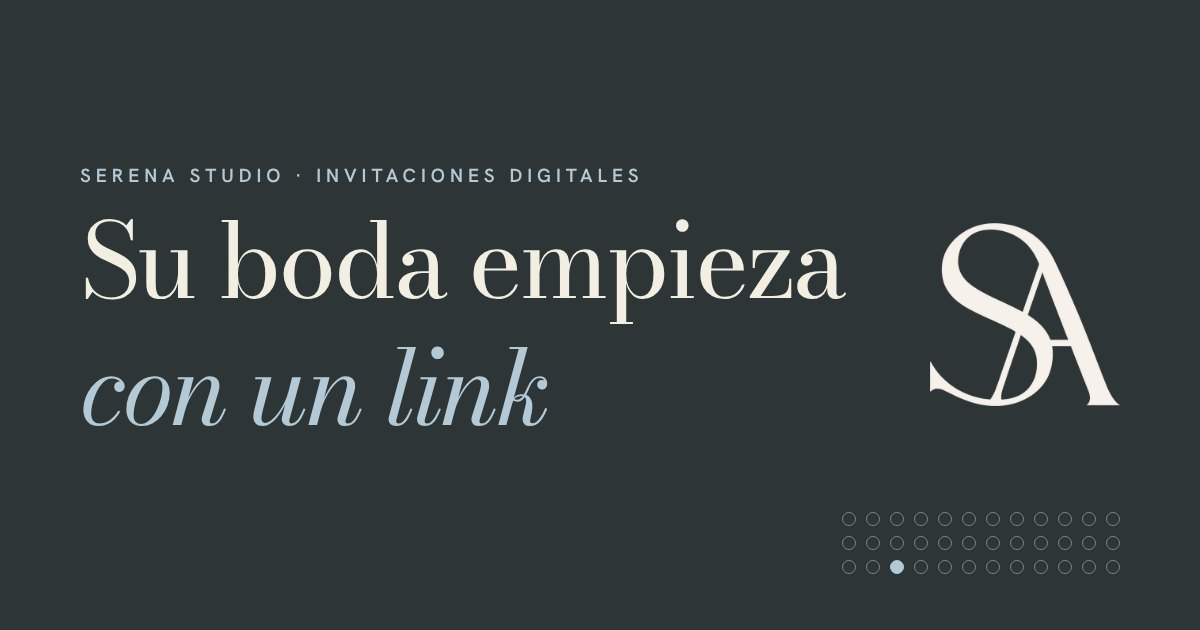
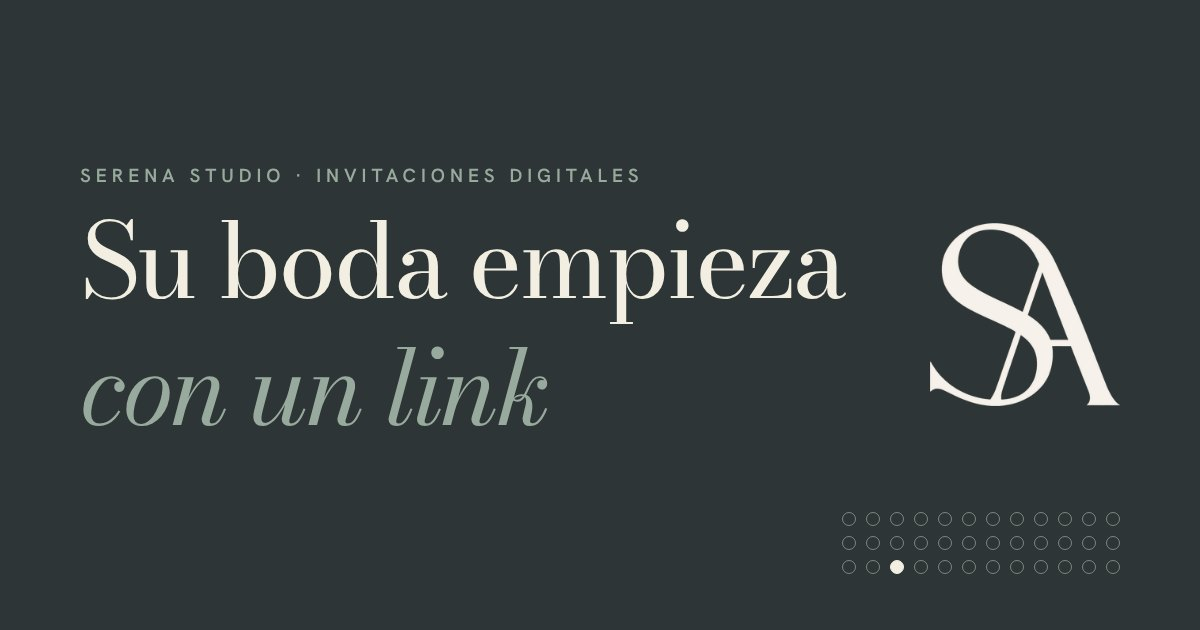
Dirección "Eucalipto": se quita el azul Mist de la paleta
Quedan eucalipto, musgo, hollín y yeso. "Con un link" y el botón
principal pasan a eucalipto; el proceso va sobre un musgo un punto más
profundo (#5C6E62) para que el texto en yeso cumpla AA. Manifiesto y
lámina en docs/eucalipto.md y docs/lamina-eucalipto.jpg.

Claude-Session: https://claude.ai/code/session_01CRn6ZXL6TqJTvQMKZUivaK

Changed region(s): [[0.0617, 0.5429, 0.4625, 0.6937], [0.0617, 0.2714, 0.5242, 0.3016], [0.74, 0.8746, 0.7708, 0.9048]]

diff --git a/index.html b/index.html
@@ -162,12 +162,12 @@
    tabla comparativa (como una hoja de cotización); cierre con el mensaje de WhatsApp ya escrito.
    Marca: la del brochure (papel, tinta, vino; Cormorant + Hanken). Un solo look a propósito. */
 :root{
-  /* Paleta "Bruma" (docs/bruma.md): eucalipto, bruma, yeso, hollín y musgo */
+  /* Paleta "Eucalipto" (docs/eucalipto.md): eucalipto, musgo, hollín y yeso */
   --papel:#F2EFE2;     /* yeso: fondo de lectura */
   --hoja:#FAF8F1;      /* yeso claro: tabla y burbuja */
   --tinta:#2D3536;     /* hollín: texto, portada y pie */
   --euca:#98AA9D;      /* eucalipto: banda de muestras */
-  --bruma:#B3C9D6;     /* bruma: banda del proceso y acento frío sobre hollín */
+  --musgo-banda:#5C6E62; /* musgo un punto más profundo: banda del proceso (texto yeso AA 4,7:1) */
   --musgo:#697C70;     /* musgo: filetes y detalles grandes */
   --musgo-osc:#4E5E54; /* musgo oscuro: acentos de texto sobre yeso (AA) */
   --vino:#4E5E54;      /* alias de acento de texto */
@@ -176,9 +176,9 @@
   --gris:#4E5E54;      /* texto secundario (AA sobre yeso) */
   --linea:#D9D8CB;
   --linea-2:#B9BDB2;
-  --rubor:#B3C9D6;
+  --rubor:#98AA9D;
   --claro:#D5DCD6;     /* texto secundario sobre hollín */
-  --chat:#DCE6EC;      /* burbuja del mensaje enviado: verde muy apagado, sin imitar a WhatsApp */
+  --chat:#E1E8E2;      /* burbuja del mensaje enviado: verde muy apagado, sin imitar a WhatsApp */
   --crema:#D9D1C5;     /* texto secundario sobre tinta */
 
   --f-display:"Bodoni Moda", "Didot", "Bodoni 72", Georgia, serif;
@@ -391,7 +391,7 @@ details p{color:var(--gris);margin:0;padding-bottom:1.3rem;max-width:40rem}
 .pie p{margin:0}
 
 
-/* ===================== DIRECCIÓN "BRUMA" ===================== */
+/* ===================== DIRECCIÓN "EUCALIPTO" ===================== */
 h2{font-size:clamp(2.3rem, 7vw, 3.7rem);line-height:1.02;letter-spacing:-.02em}
 .muestra h3{font-size:1.55rem;letter-spacing:-.01em}
 summary{font-size:1.3rem;letter-spacing:-.01em}
@@ -406,15 +406,15 @@ summary{font-size:1.3rem;letter-spacing:-.01em}
 .tope .portada{border-top-color:rgba(152,170,157,.35)}
 .tope .portada h1 .rotulo{color:var(--euca)}
 .tope .portada .eslogan{color:var(--papel);font-size:clamp(3.6rem, 14vw, 7.4rem);line-height:.88;letter-spacing:-.04em}
-.tope .portada .eslogan em{color:var(--bruma)}
+.tope .portada .eslogan em{color:var(--euca)}
 .tope .portada .lema{color:var(--claro)}
 .tope .datos{border-top-color:var(--musgo);color:var(--claro)}
 .tope .datos b{color:var(--papel)}
 .tope .btn{border-color:var(--papel);color:var(--papel)}
 .tope .btn:hover{background:var(--papel);color:var(--tinta)}
-.tope .btn-tinta{background:var(--bruma);color:var(--tinta);border-color:var(--bruma)}
+.tope .btn-tinta{background:var(--euca);color:var(--tinta);border-color:var(--euca)}
 .tope .btn-tinta:hover{background:var(--papel);border-color:var(--papel);color:var(--tinta)}
-.tope :focus-visible{outline-color:var(--bruma)}
+.tope :focus-visible{outline-color:var(--euca)}
 .tope .pie-escena{color:var(--claro)}
 .tope .cel{border-color:#161B1B;background:#161B1B;box-shadow:0 40px 70px -35px rgba(0,0,0,.8)}
 .tope .saltar{background:var(--papel);color:var(--tinta)}
@@ -430,27 +430,28 @@ summary{font-size:1.3rem;letter-spacing:-.01em}
 .muestra .abrir{text-decoration-color:var(--tinta)}
 .muestra a:hover .abrir{color:var(--tinta);text-decoration-thickness:2px}
 
-/* Precios sobre yeso, columna destacada en bruma */
-.col-dest{background:rgba(179,201,214,.38)}
+/* Precios sobre yeso, columna destacada en eucalipto */
+.col-dest{background:rgba(152,170,157,.26)}
 thead .col-dest{box-shadow:inset 0 4px 0 var(--musgo)}
 .tabla-caja{border-color:var(--tinta)}
 td svg{color:var(--musgo-osc)}
 .solo-pdf{border-color:var(--musgo)}
 .solo-pdf strong{color:var(--musgo-osc)}
 
-/* Proceso sobre bruma */
-.proceso{background:var(--bruma);color:var(--tinta);border-top:0}
-.proceso p{color:var(--tinta)}
-.pasos li::before{color:var(--tinta)}
-.pasos li{border-top-color:rgba(45,53,54,.3)}
-@media (min-width:56rem){.pasos li{border-top-color:var(--tinta)}}
+/* Proceso sobre musgo */
+.proceso{background:var(--musgo-banda);color:var(--papel);border-top:0}
+.proceso h2,.proceso h3,.proceso p{color:var(--papel)}
+.pasos li::before{color:var(--papel)}
+.pasos li{border-top-color:rgba(242,239,226,.35)}
+@media (min-width:56rem){.pasos li{border-top-color:var(--euca)}}
+.proceso :focus-visible{outline-color:var(--papel)}
 
 /* Pie sobre hollín */
 .pie-oscuro{background:var(--tinta);color:var(--claro)}
 .pie-oscuro .pie{border-top:0;color:var(--claro)}
 .pie-oscuro a{color:var(--papel);text-decoration-color:var(--euca)}
-.pie-oscuro a:hover{color:var(--bruma)}
-.pie-oscuro :focus-visible{outline-color:var(--bruma)}
+.pie-oscuro a:hover{color:var(--euca)}
+.pie-oscuro :focus-visible{outline-color:var(--euca)}
 @media (prefers-reduced-motion:reduce){
   html{scroll-behavior:auto}
   .muestra .cel{transition:none}

diff --git a/docs/eucalipto.md b/docs/eucalipto.md
@@ -1,0 +1,13 @@
+# Eucalipto
+
+*Manifiesto visual de Serena Studio. Lámina: `lamina-eucalipto.jpg`. Reemplaza a "Bruma" (sin el azul Mist). Paleta entregada por el estudio: Eucalyptus #98AA9D, Plaster #F2EFE2, Soot #2D3536, Moss #697C70.*
+
+**Eucalipto** es la elegancia de lo vegetal visto de cerca. Nace de una rama cortada sobre una mesa de yeso: hojas redondas de verde grisáceo, un tallo que se curva, la sombra profunda que la luz deja detrás. Es una estética de pocas notas y mucha presencia, donde un verde apagado se vuelve protagonista porque todo a su alrededor se calla. Debe sentirse como el trabajo de alguien que pasó años observando una misma planta hasta conocer cada matiz: meticulosamente calibrada, sin un solo tono de sobra.
+
+**Color y luz.** La paleta es monocroma en espíritu: tres verdes y una luz. El eucalipto es la hoja viva; el musgo es la misma hoja a la sombra; el hollín es la noche verde, un carbón con fondo vegetal que ordena y da gravedad; el yeso es la pared encalada, la luz sobre la que todo descansa. Al no haber un color de contraste, la fuerza nace del valor: claros contra oscuros, nunca medios contra medios. Esa disciplina se ajusta con paciencia, tono contra tono, hasta que cada par se lee con nitidez y calma.
+
+**Forma y crecimiento.** Las formas son botánicas y exactas: hojas ovaladas que se ordenan en espiral según la proporción áurea, tallos que se curvan sin prisa, racimos que crecen siguiendo una regla invisible. Cientos de formas iguales, dibujadas con la misma presión, construyen algo vivo por acumulación. Cada hoja recibe la misma atención que la primera; el conjunto debe parecer el estudio de un naturalista dedicado a una sola rama durante estaciones enteras.
+
+**Escala y tipografía.** Una serifa de altísimo contraste aparece en tamaños monumentales y en muy pocas palabras, con la cursiva reservada para el momento emotivo. A su lado, rótulos diminutos en mayúsculas espaciadas, como etiquetas de herbario. Entre ambos extremos no hay tamaños intermedios. Cada letra se ajusta a mano, con la precisión de quien distingue un punto de diferencia.
+
+**Composición y presencia.** La composición alterna campos completos: hollín, eucalipto, yeso, musgo, como las capas de una misma rama vista de la luz a la sombra. Dentro de cada campo, una forma manda y las demás la rodean en silencio. Una sola hoja de luz entre cientos verdes basta para fijar la mirada. El texto es mínimo, colocado como una firma. El resultado debe parecer obra de incontables horas de alguien en la cima de su oficio: sereno a primera vista, inolvidable al mirarlo de nuevo.

diff --git a/docs/bruma.md b/docs/bruma.md
@@ -1,6 +1,6 @@
 # Bruma
 
-*Manifiesto visual de Serena Studio. Lámina: `lamina-bruma.jpg`. Reemplaza a "Materia". Paleta entregada por el estudio: Eucalyptus #98AA9D, Mist #B3C9D6, Plaster #F2EFE2, Soot #2D3536, Moss #697C70.*
+*Manifiesto visual de Serena Studio (versión anterior, reemplazada por `eucalipto.md`). Lámina: `lamina-bruma.jpg`.*
 
 **Bruma** es la calma con carácter. Nace de la hora en que la luz entra filtrada por una ventana y todo lo vegetal se vuelve gris verdoso, cuando el aire tiene color y los objetos parecen flotar en él. Su elegancia no viene de la suavidad sino del contraste: tonos de hoja y de cielo nublado que se apoyan en un solo negro carbón, profundo y firme, que les da peso y presencia. Es una estética serena que no pide permiso, ejecutada con el cuidado de alguien que ha pasado años mezclando pigmentos hasta encontrar el gris exacto: meticulosamente calibrada, sin un tono fuera de lugar.
 
